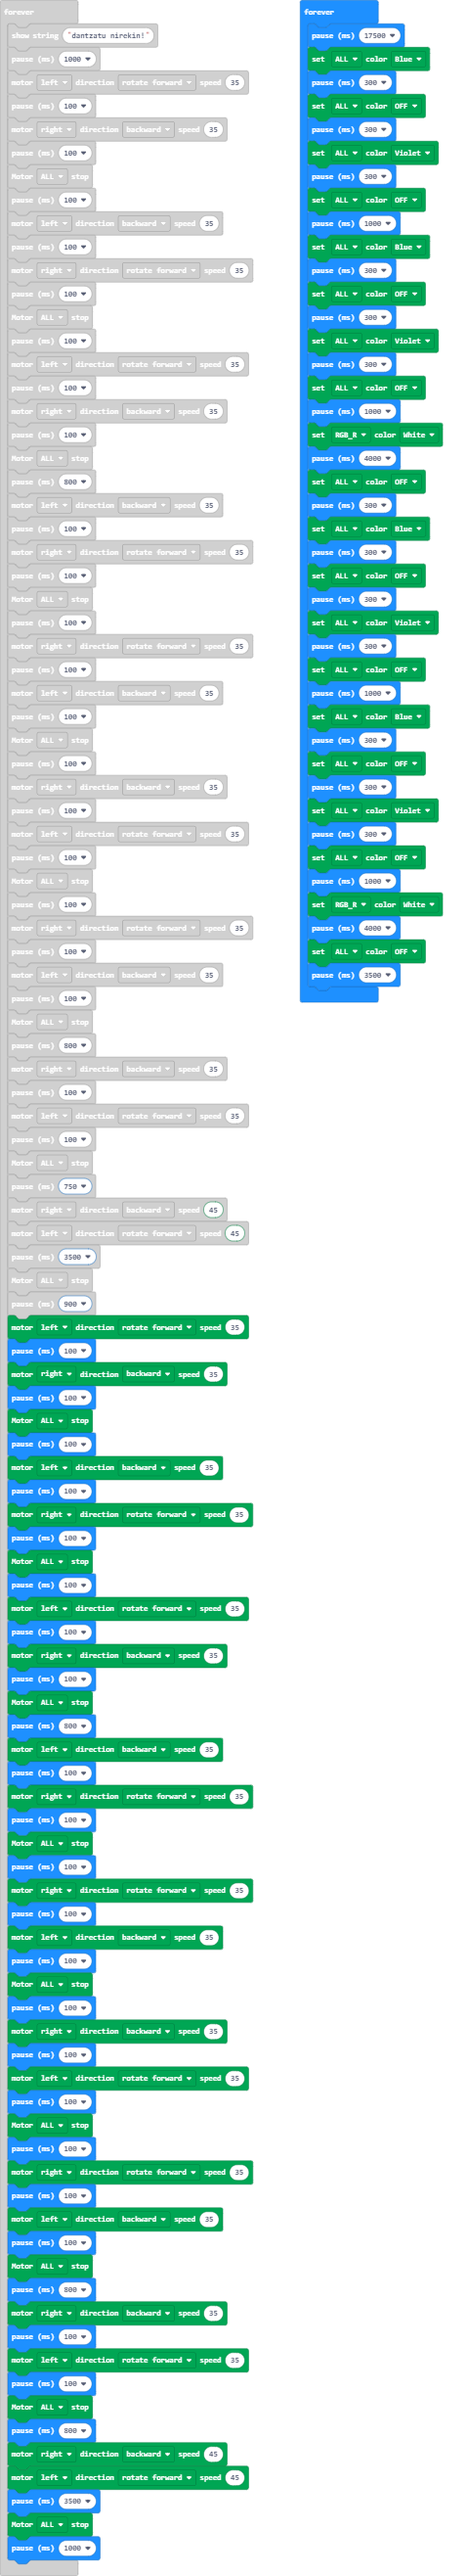
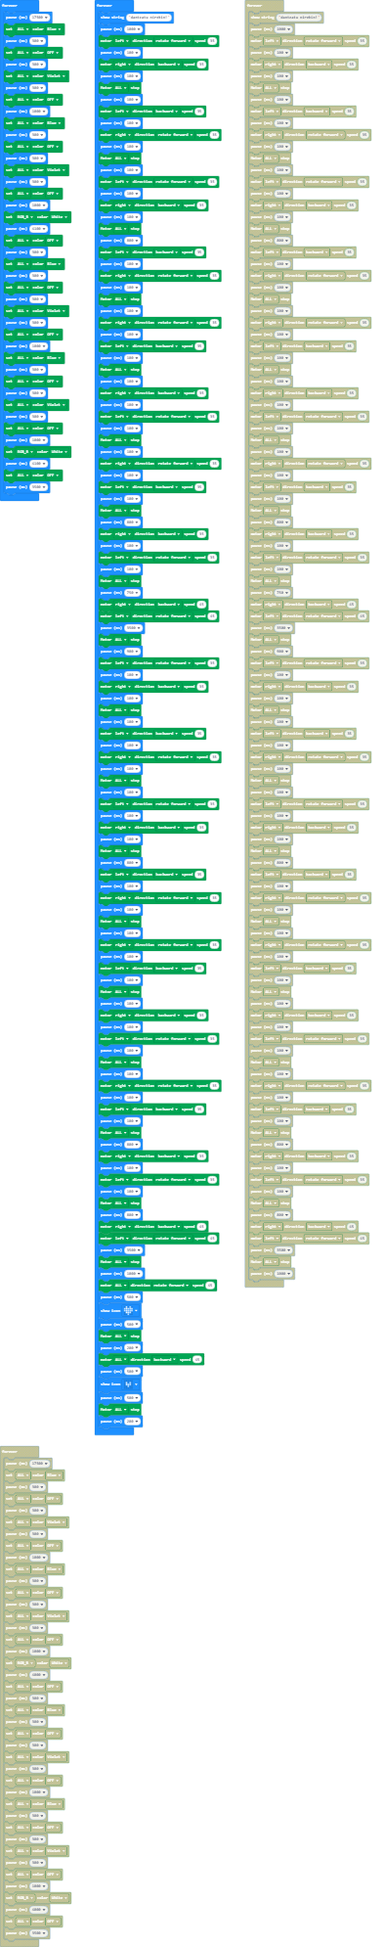
Update main.blocks, main.ts

diff --git a/main.ts b/main.ts
@@ -1,5 +1,48 @@
 DFRobotMaqueenPlus.I2CInit()
 basic.forever(function () {
+    basic.pause(17500)
+    DFRobotMaqueenPlus.setRGBLight(RGBLight.RGBA, Color.BLUE)
+    basic.pause(300)
+    DFRobotMaqueenPlus.setRGBLight(RGBLight.RGBA, Color.OFF)
+    basic.pause(300)
+    DFRobotMaqueenPlus.setRGBLight(RGBLight.RGBA, Color.PINK)
+    basic.pause(300)
+    DFRobotMaqueenPlus.setRGBLight(RGBLight.RGBA, Color.OFF)
+    basic.pause(1000)
+    DFRobotMaqueenPlus.setRGBLight(RGBLight.RGBA, Color.BLUE)
+    basic.pause(300)
+    DFRobotMaqueenPlus.setRGBLight(RGBLight.RGBA, Color.OFF)
+    basic.pause(300)
+    DFRobotMaqueenPlus.setRGBLight(RGBLight.RGBA, Color.PINK)
+    basic.pause(300)
+    DFRobotMaqueenPlus.setRGBLight(RGBLight.RGBA, Color.OFF)
+    basic.pause(1000)
+    DFRobotMaqueenPlus.setRGBLight(RGBLight.RGBR, Color.WHITH)
+    basic.pause(4100)
+    DFRobotMaqueenPlus.setRGBLight(RGBLight.RGBA, Color.OFF)
+    basic.pause(300)
+    DFRobotMaqueenPlus.setRGBLight(RGBLight.RGBA, Color.BLUE)
+    basic.pause(300)
+    DFRobotMaqueenPlus.setRGBLight(RGBLight.RGBA, Color.OFF)
+    basic.pause(300)
+    DFRobotMaqueenPlus.setRGBLight(RGBLight.RGBA, Color.PINK)
+    basic.pause(300)
+    DFRobotMaqueenPlus.setRGBLight(RGBLight.RGBA, Color.OFF)
+    basic.pause(1000)
+    DFRobotMaqueenPlus.setRGBLight(RGBLight.RGBA, Color.BLUE)
+    basic.pause(300)
+    DFRobotMaqueenPlus.setRGBLight(RGBLight.RGBA, Color.OFF)
+    basic.pause(300)
+    DFRobotMaqueenPlus.setRGBLight(RGBLight.RGBA, Color.PINK)
+    basic.pause(300)
+    DFRobotMaqueenPlus.setRGBLight(RGBLight.RGBA, Color.OFF)
+    basic.pause(1000)
+    DFRobotMaqueenPlus.setRGBLight(RGBLight.RGBR, Color.WHITH)
+    basic.pause(4100)
+    DFRobotMaqueenPlus.setRGBLight(RGBLight.RGBA, Color.OFF)
+    basic.pause(3500)
+})
+basic.forever(function () {
     basic.showString("dantzatu nirekin!")
     basic.pause(1000)
     DFRobotMaqueenPlus.mototRun(Motors.M1, Dir.CW, 35)
@@ -108,47 +151,16 @@ basic.forever(function () {
     basic.pause(3500)
     DFRobotMaqueenPlus.mototStop(Motors.ALL)
     basic.pause(1000)
-})
-basic.forever(function () {
-    basic.pause(17500)
-    DFRobotMaqueenPlus.setRGBLight(RGBLight.RGBA, Color.BLUE)
-    basic.pause(300)
-    DFRobotMaqueenPlus.setRGBLight(RGBLight.RGBA, Color.OFF)
-    basic.pause(300)
-    DFRobotMaqueenPlus.setRGBLight(RGBLight.RGBA, Color.PINK)
-    basic.pause(300)
-    DFRobotMaqueenPlus.setRGBLight(RGBLight.RGBA, Color.OFF)
-    basic.pause(1000)
-    DFRobotMaqueenPlus.setRGBLight(RGBLight.RGBA, Color.BLUE)
-    basic.pause(300)
-    DFRobotMaqueenPlus.setRGBLight(RGBLight.RGBA, Color.OFF)
-    basic.pause(300)
-    DFRobotMaqueenPlus.setRGBLight(RGBLight.RGBA, Color.PINK)
-    basic.pause(300)
-    DFRobotMaqueenPlus.setRGBLight(RGBLight.RGBA, Color.OFF)
-    basic.pause(1000)
-    DFRobotMaqueenPlus.setRGBLight(RGBLight.RGBR, Color.WHITH)
-    basic.pause(4000)
-    DFRobotMaqueenPlus.setRGBLight(RGBLight.RGBA, Color.OFF)
-    basic.pause(300)
-    DFRobotMaqueenPlus.setRGBLight(RGBLight.RGBA, Color.BLUE)
-    basic.pause(300)
-    DFRobotMaqueenPlus.setRGBLight(RGBLight.RGBA, Color.OFF)
-    basic.pause(300)
-    DFRobotMaqueenPlus.setRGBLight(RGBLight.RGBA, Color.PINK)
-    basic.pause(300)
-    DFRobotMaqueenPlus.setRGBLight(RGBLight.RGBA, Color.OFF)
-    basic.pause(1000)
-    DFRobotMaqueenPlus.setRGBLight(RGBLight.RGBA, Color.BLUE)
-    basic.pause(300)
-    DFRobotMaqueenPlus.setRGBLight(RGBLight.RGBA, Color.OFF)
-    basic.pause(300)
-    DFRobotMaqueenPlus.setRGBLight(RGBLight.RGBA, Color.PINK)
-    basic.pause(300)
-    DFRobotMaqueenPlus.setRGBLight(RGBLight.RGBA, Color.OFF)
-    basic.pause(1000)
-    DFRobotMaqueenPlus.setRGBLight(RGBLight.RGBR, Color.WHITH)
-    basic.pause(4000)
-    DFRobotMaqueenPlus.setRGBLight(RGBLight.RGBA, Color.OFF)
-    basic.pause(3500)
+    DFRobotMaqueenPlus.mototRun(Motors.ALL, Dir.CW, 45)
+    basic.pause(500)
+    basic.showIcon(IconNames.Heart)
+    basic.pause(500)
+    DFRobotMaqueenPlus.mototStop(Motors.ALL)
+    basic.pause(200)
+    DFRobotMaqueenPlus.mototRun(Motors.ALL, Dir.CCW, 45)
+    basic.pause(500)
+    basic.showIcon(IconNames.SmallHeart)
+    basic.pause(500)
+    DFRobotMaqueenPlus.mototStop(Motors.ALL)
+    basic.pause(200)
 })
